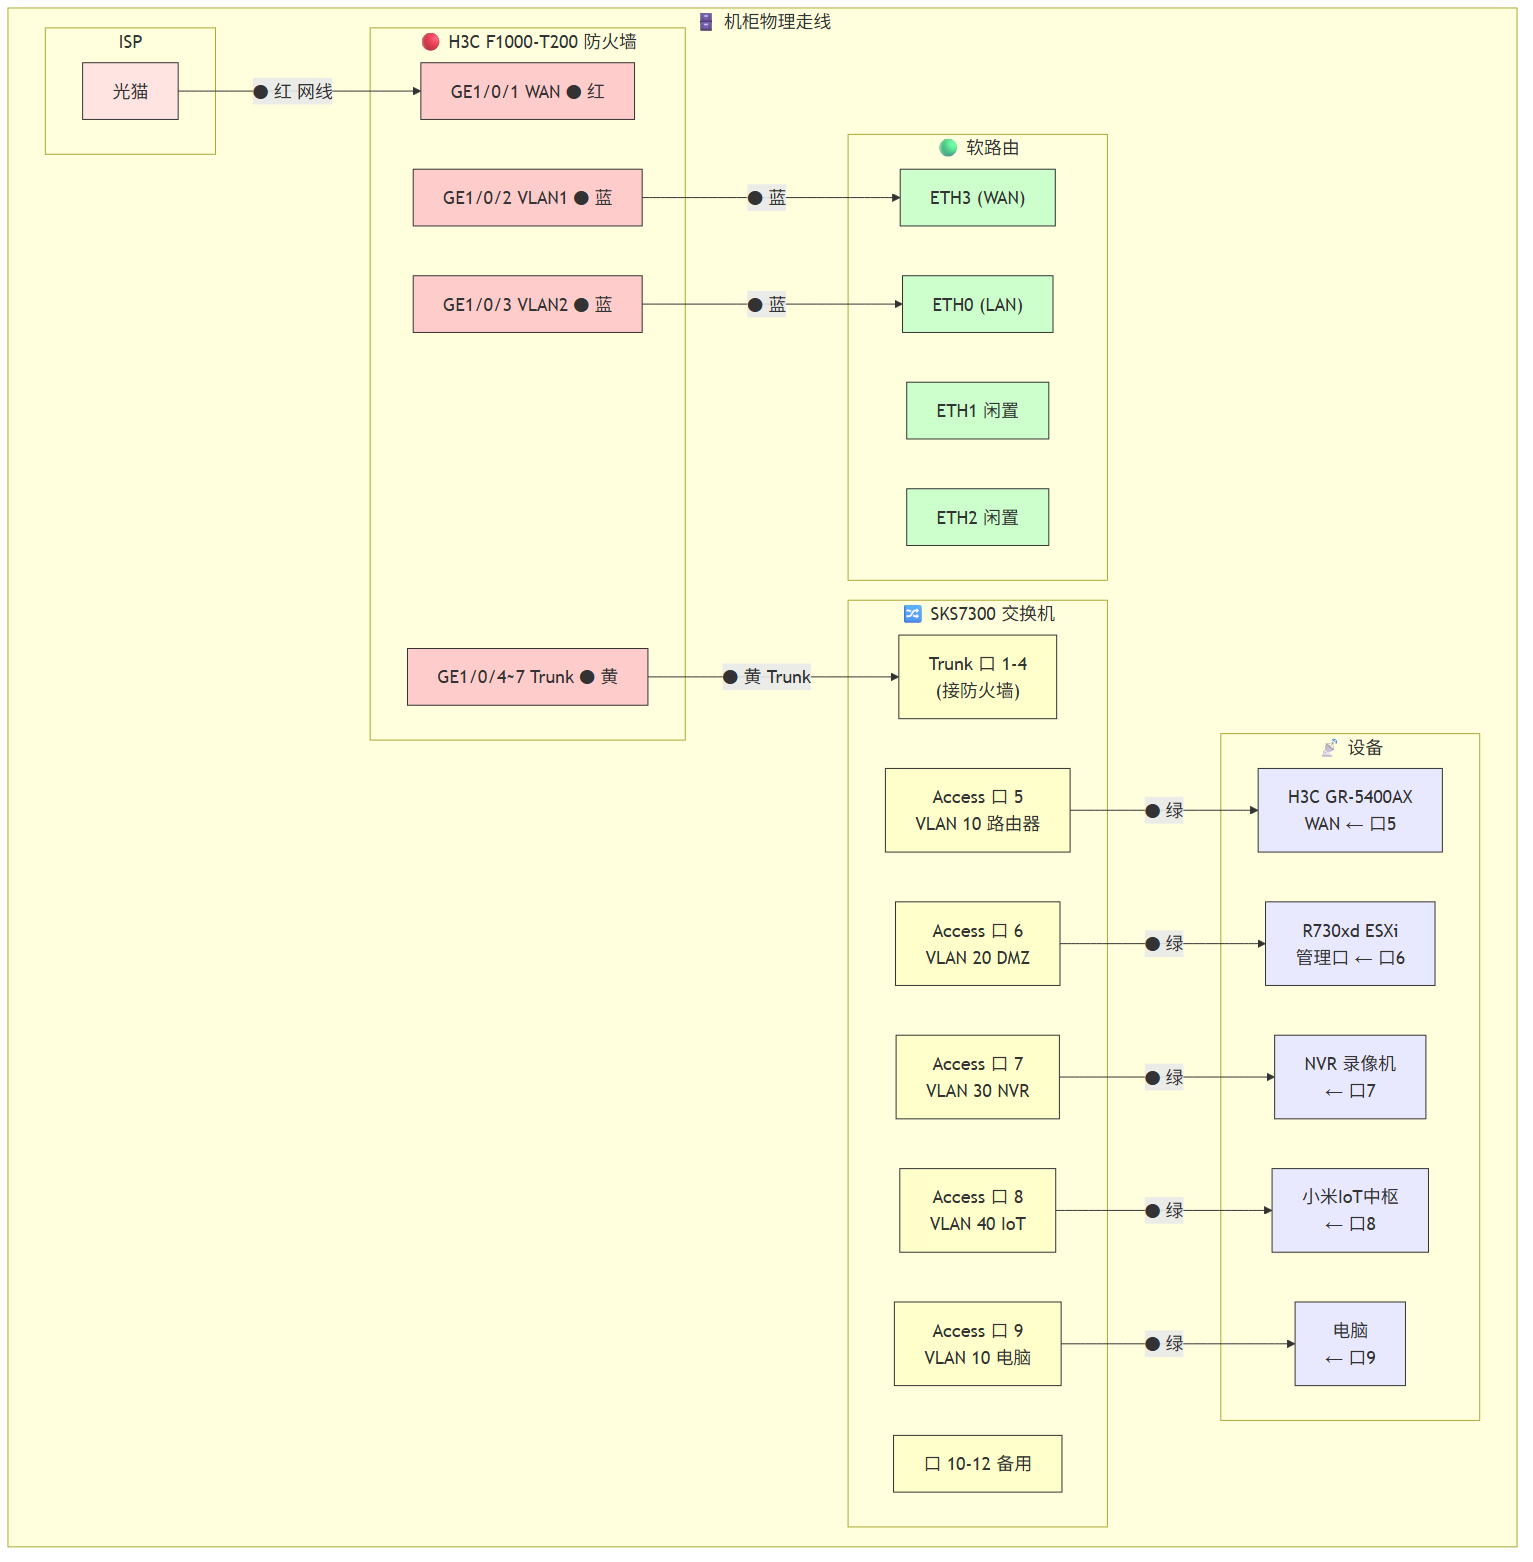
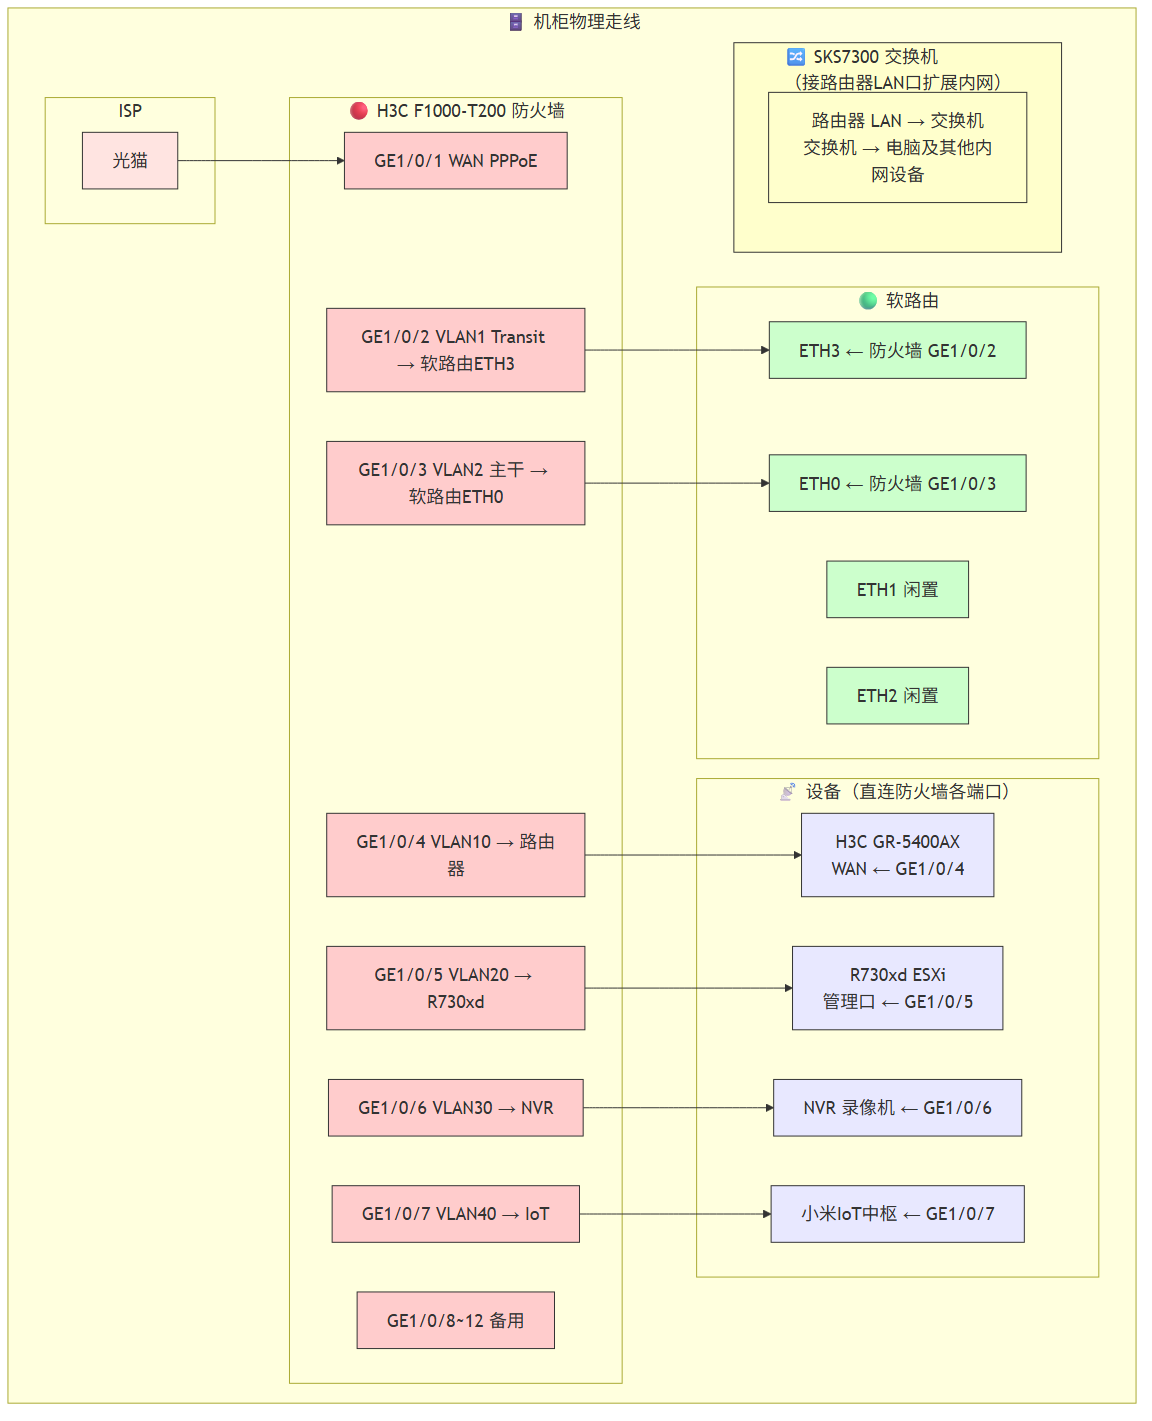
fix: 各 VLAN 设备直连防火墙，无需 Trunk

Changed region(s): [[0.0, 0.0, 1.0, 0.9909], [0.25, 0.4025, 0.4375, 0.4645], [0.1562, 0.031, 0.2188, 0.0619]]

diff --git a/source/_posts/home-network-setup.md b/source/_posts/home-network-setup.md
@@ -432,20 +432,18 @@ security-policy ip
 
 ### 设备端口对应表
 
-| 源设备 | 源端口 | 线缆 | 目标设备 | 目标端口 | 备注 |
-|--------|--------|------|---------|---------|------|
-| ISP 光猫 | LAN 口 | 网线 | **H3C F1000-T200 防火墙** | **GE1/0/1** | WAN 口，PPPoE 拨号 |
-| **H3C 防火墙** | **GE1/0/2** | 网线 | **软路由** | **ETH3** | VLAN 1 Transit (WAN) |
-| **H3C 防火墙** | **GE1/0/3** | 网线 | **软路由** | **ETH0** | VLAN 2 主干 (LAN) |
-| **H3C 防火墙** | GE1/0/4 | 网线 | **交换机** | 任意口 (Trunk) | VLAN 10 路由器 |
-| **H3C 防火墙** | GE1/0/5 | 网线 | **交换机** | 任意口 (Trunk) | VLAN 20 DMZ |
-| **H3C 防火墙** | GE1/0/6 | 网线 | **交换机** | 任意口 (Trunk) | VLAN 30 监控 |
-| **H3C 防火墙** | GE1/0/7 | 网线 | **交换机** | 任意口 (Trunk) | VLAN 40 IoT |
-| **交换机** | Access 口 | 网线 | **H3C GR-5400AX** | **WAN 口** | VLAN 10 |
-| **交换机** | Access 口 | 网线 | **R730xd** | **iDRAC/管理口** | VLAN 20 DMZ |
-| **交换机** | Access 口 | 网线 | **NVR 录像机** | LAN 口 | VLAN 30 监控 |
-| **交换机** | Access 口 | 网线 | **小米 IoT 中枢** | LAN 口 | VLAN 40 IoT |
-| **交换机** | Access 口 | 网线 | **电脑** | LAN 口 | VLAN 10（或单独 VLAN） |
+防火墙拥有 12 个物理端口，各 VLAN 设备**直连防火墙对应端口**，无需经过交换机：
+
+| 源设备 | 源端口 | 目标设备 | 目标端口 | 用途 |
+|--------|--------|---------|---------|------|
+| ISP 光猫 | LAN 口 | **H3C 防火墙** | **GE1/0/1** | WAN PPPoE 拨号 |
+| **H3C 防火墙** | **GE1/0/2** | **软路由** | **ETH3** | VLAN 1 Transit |
+| **H3C 防火墙** | **GE1/0/3** | **软路由** | **ETH0** | VLAN 2 主干 |
+| **H3C 防火墙** | **GE1/0/4** | **H3C GR-5400AX** | **WAN 口** | VLAN 10 路由器 |
+| **H3C 防火墙** | **GE1/0/5** | **R730xd** | **管理口** | VLAN 20 DMZ |
+| **H3C 防火墙** | **GE1/0/6** | **NVR 录像机** | LAN 口 | VLAN 30 监控 |
+| **H3C 防火墙** | **GE1/0/7** | **小米 IoT 中枢** | LAN 口 | VLAN 40 IoT |
+| **GR-5400AX 路由器** | LAN 口 | **交换机** | 任意口 | 扩展内网（电脑等） |
 
 ### 物理连接示意图
 
@@ -456,10 +454,10 @@ security-policy ip
 | 要点 | 说明 |
 |------|------|
 | 🔌 **防火墙 ↔ 软路由** | **必须用 2 根独立网线**：ETH3(VLAN1) + ETH0(VLAN2)，不能共用 |
-| 🔀 **防火墙 ↔ 交换机** | 防火墙 GE1/0/4~1/0/7 接交换机 Trunk 口，单线即可承载所有 VLAN |
-| 🏷️ **网线标签** | 建议两端贴标签：`FW-GE1/0/2→SR-ETH3`、`FW-GE1/0/3→SR-ETH0` 等 |
-| 🎨 **颜色区分** | WAN 线用红色、Trunk 线用黄色、Access 线用蓝色，便于排障 |
-| 📏 **交换机端口** | 12 口交换机建议前 4 口做 Trunk（接防火墙），后 8 口做 Access（接设备） |
+| 🏷️ **网线标签** | 建议两端贴标签：`FW-GE1/0/2→SR-ETH3`、`FW-GE1/0/4→GR-5400AX` 等 |
+| 🎨 **颜色区分** | WAN 线用红色、防火墙↔软路由用蓝色、设备线用绿色，便于排障 |
+| 🔌 **一机一线** | 各 VLAN 设备直连防火墙对应端口，互不干扰 |
+| 📏 **交换机角色** | 交换机接在路由器 LAN 口下，仅用于扩展有线端口（电脑等） |
 
 ---
 